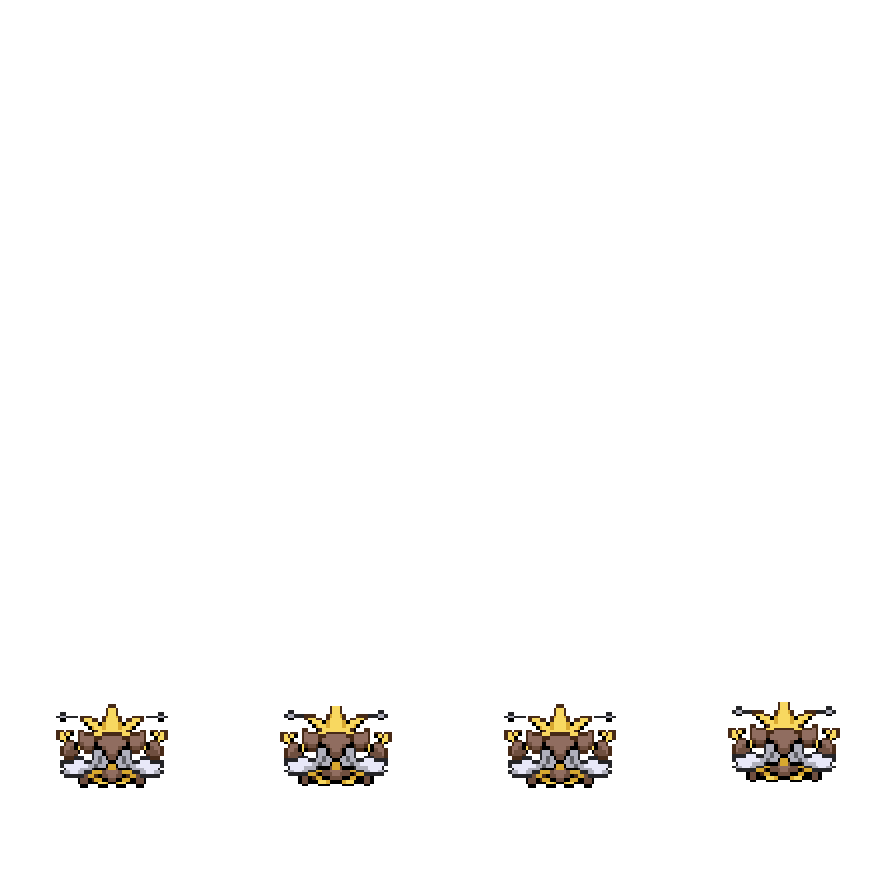
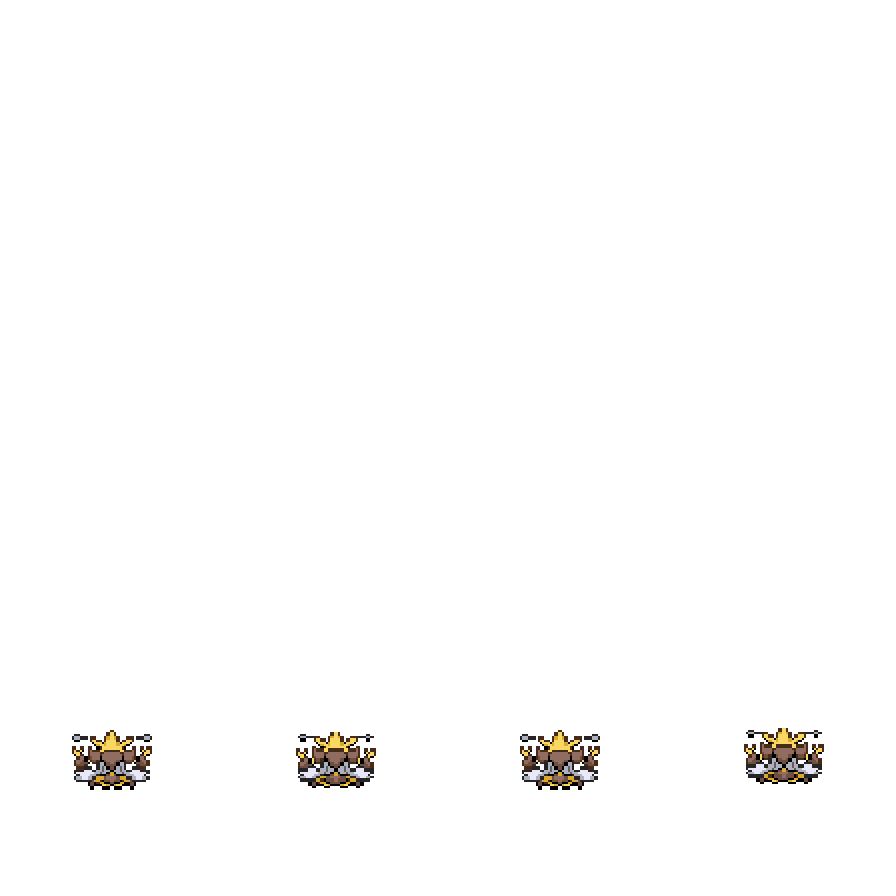
Reduce Mega Alakazam mount size and realign the rider

diff --git a/tools/build_mega_alakazam_mount.py b/tools/build_mega_alakazam_mount.py
@@ -1,4 +1,4 @@
-"""Build the approved V5 composition with the lower V9 rear rider.
+"""Build the smaller Mega Alakazam with the approved seated/levitating pose.
 
 The supplied source and unchanged player ride pose use exact 2x pixels.
 Only the creature and psychic support are baked into runtime sheets.
@@ -13,12 +13,13 @@ from import_player_layered_sprites import write_texture_import
 ROOT = Path(__file__).resolve().parents[1]
 ASSETS = ROOT / "assets/mounts/mega_alakazam"
 FRAME = 112
+CREATURE_SIZE = 40
 NEAREST = Image.Resampling.NEAREST
 DIRECTIONS = ("down", "left", "right", "up")
-# Translate each complete preview layout to one common ground anchor, without
-# changing the distance between rider, ring and Alakazam in any direction.
-RIDER_POS = ((40, 30), (22, 16), (58, 16), (40, 6))
-MOUNT_POS = ((28, 4), (37, 4), (19, 4), (28, 4))
+# Keep Alakazam centered over the same ground anchor when reducing his size.
+# Reposition only the rider origins; the player sprites are never resized.
+RIDER_POS = ((40, 34), (22, 26), (58, 26), (40, 19))
+MOUNT_POS = ((36, 20), (45, 20), (27, 20), (36, 20))
 
 
 def build() -> None:
@@ -35,7 +36,7 @@ def build() -> None:
             normalized = Image.new("RGBA", (32, 32))
             normalized.alpha_composite(original, (0, -2 if col % 2 else 0))
             assert normalized.getchannel("A").histogram()[255] == original.getchannel("A").histogram()[255]
-            sprite = normalized.resize((56, 56), NEAREST)
+            sprite = normalized.resize((CREATURE_SIZE, CREATURE_SIZE), NEAREST)
             creature = Image.new("RGBA", (FRAME, FRAME))
             mx, my = MOUNT_POS[row]
             mount_bob = round(math.sin(phase * math.tau / 16))
@@ -45,7 +46,8 @@ def build() -> None:
             if row == 3:
                 foreground = creature.copy()
                 # Precisely exclude the floating spoons, including frame bob.
-                foreground.paste((0, 0, 0, 0), (0, 0, FRAME, my + 12 + mount_bob))
+                spoon_height = math.ceil(CREATURE_SIZE * 7 / 32)
+                foreground.paste((0, 0, 0, 0), (0, 0, FRAME, my + spoon_height + mount_bob))
             mask = Image.new("RGBA", creature.size, (255, 255, 255, 0))
             mask.putalpha(foreground.getchannel("A"))
             rx, ry = RIDER_POS[row]

diff --git a/assets/mounts/mega_alakazam/README.md b/assets/mounts/mega_alakazam/README.md
@@ -1,8 +1,10 @@
 # Mega Alakazam levitation mount
 
-Based on the supplied source sheet and approved V5 composition. The rear rider
-is 22 logical pixels lower than V5, including the last requested adjustment.
-The front and side compositions retain V5's relative positions and layering.
+Based on the supplied source sheet and approved seated levitation concept.
+Alakazam is now 40 logical pixels (80 physical pixels), down from 56/112,
+approximately 29% smaller. His ground anchor and the player's exact 64×64
+ride assets are retained. Rider origins and the rear mask were realigned to
+the smaller body, keeping the rear rider low and his head behind Alakazam.
 
 `source.png` is the user-supplied 512×256 sheet. Only the first four columns
 are used. `tools/build_mega_alakazam_mount.py` reproduces the three 896×896

diff --git a/CHANGELOG.md b/CHANGELOG.md
@@ -2,6 +2,8 @@
 
 ## Unreleased
 
+- Reduce Mega Alakazam's mount sprite by 29% and realign the psychic ring and rear rider while preserving player size and the seated pose.
+
 - Add localized Route 9 sign text and a new illustrated preview.
 
 - Add the Mega Alakazam levitation mount with the approved riding pose, psychic ring and lower rear rider.
